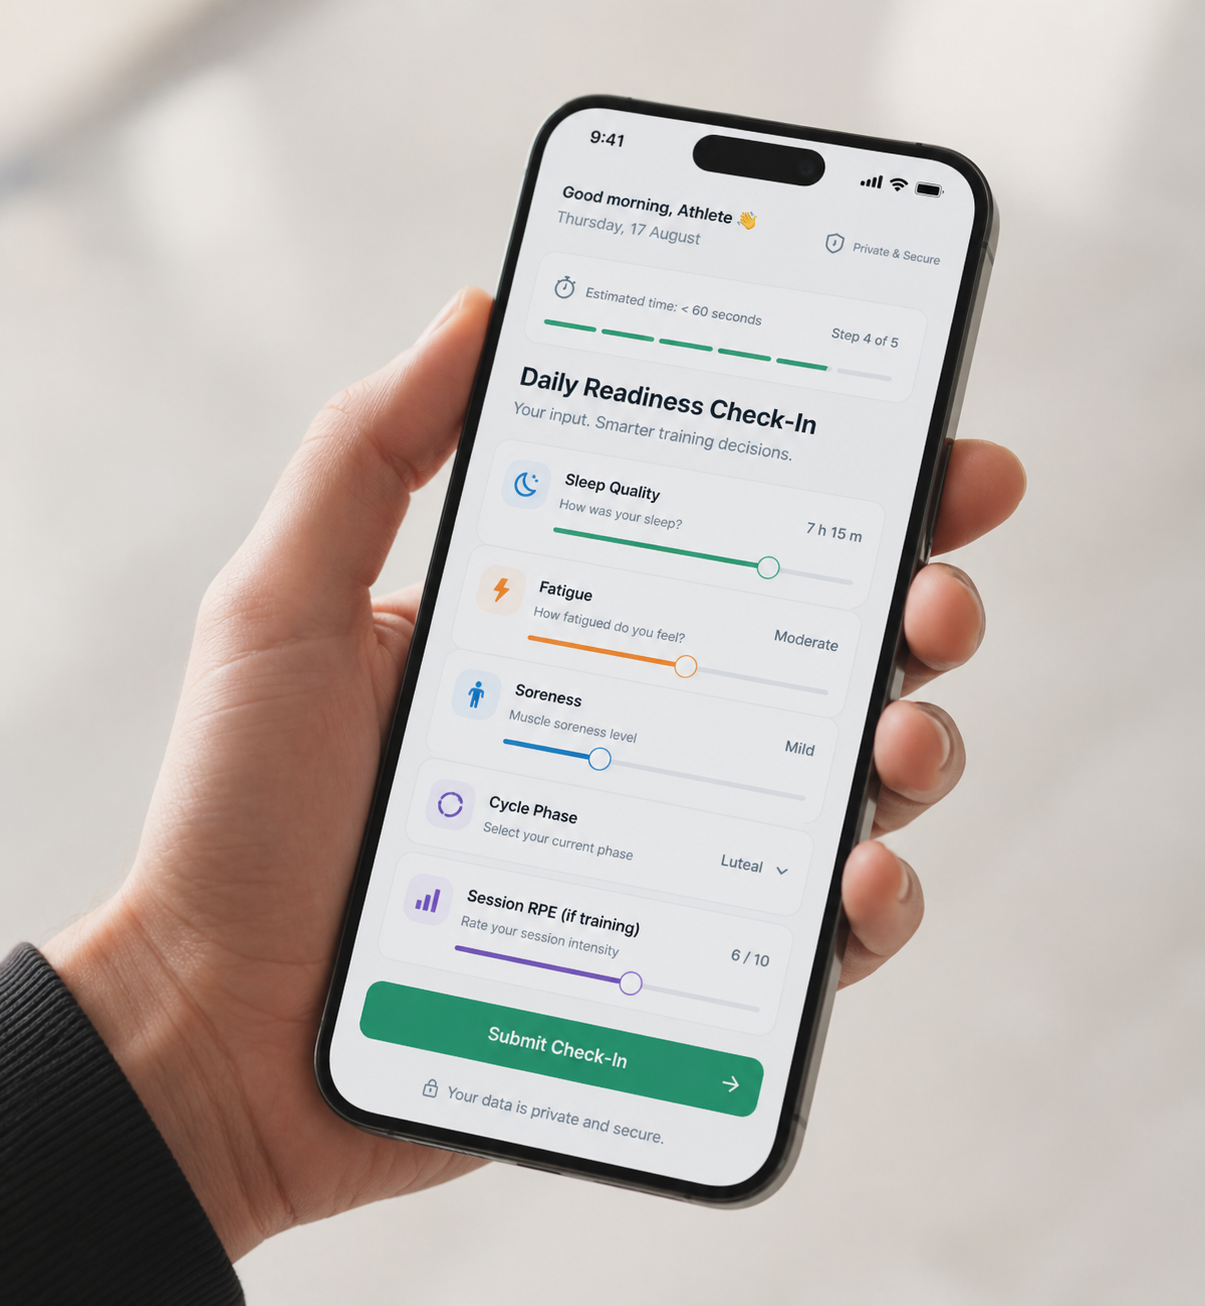
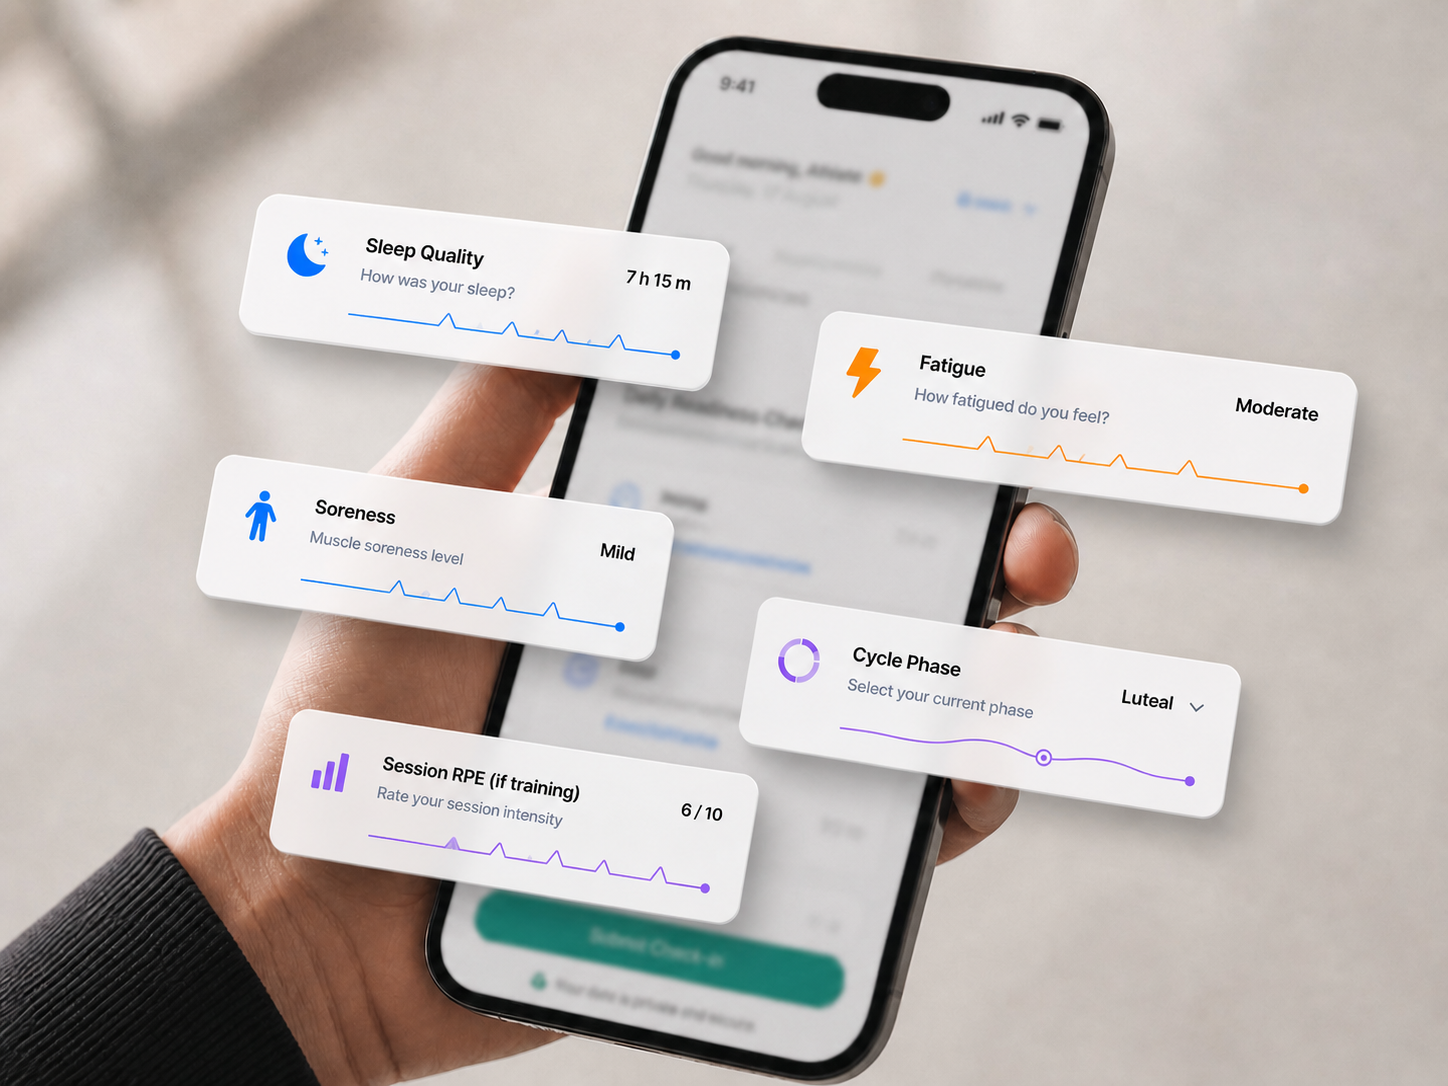
update

diff --git a/src/pages/HowItWorksPage.tsx b/src/pages/HowItWorksPage.tsx
@@ -2,14 +2,10 @@ import React from "react";
 import { motion } from "framer-motion";
 import { Link } from "react-router-dom";
 import {
-  Activity,
   ArrowRight,
   Brain,
   CheckCircle2,
   Gauge,
-  HeartPulse,
-  Network,
-  RefreshCcw,
   ShieldCheck,
   SlidersHorizontal,
   Sparkles,
@@ -147,15 +143,6 @@ const TRUST_CARDS = [
   },
 ];
 
-// Small shared UI primitives used by the hero, mockups, and CTA sections.
-function Pill({ children }: { children: React.ReactNode }) {
-  return (
-    <span className="inline-flex items-center rounded-full border border-slate-200/80 bg-white/80 px-3 py-1 text-fluid-xs font-semibold text-slate-500 shadow-[0_8px_20px_rgba(15,23,42,0.04)]">
-      {children}
-    </span>
-  );
-}
-
 function GradientButton({ children }: { children: React.ReactNode }) {
   return (
     <Link
@@ -236,87 +223,23 @@ function PhoneCheckIn() {
 
 // Step 02 visual: multiple athlete signals converging into one integration layer.
 function SignalIntegrationMockup() {
-  const signals = [
-    { label: "Wellness", Icon: HeartPulse },
-    { label: "Cycle", Icon: RefreshCcw },
-    { label: "Load", Icon: Activity },
-    { label: "RPE", Icon: SlidersHorizontal },
-  ];
-
   return (
-    <div className="relative mx-auto w-full max-w-[560px] rounded-[32px] border border-slate-200/80 bg-white/78 p-6 shadow-[0_30px_80px_rgba(15,23,42,0.08)]">
-      <div className="grid grid-cols-2 gap-4">
-        {signals.map(({ label, Icon }, index) => (
-          <motion.div
-            key={label}
-            animate={{ y: [0, index % 2 === 0 ? -5 : 5, 0] }}
-            transition={{
-              duration: 4.8,
-              repeat: Infinity,
-              ease: "easeInOut",
-              delay: index * 0.18,
-            }}
-            className="rounded-3xl border border-slate-200/70 bg-[#FAFBF8] p-5"
-          >
-            <div className="mb-6 flex h-10 w-10 items-center justify-center rounded-2xl bg-white text-[#4FA3C7] shadow-sm">
-              <Icon className="h-5 w-5" />
-            </div>
-            <p className="text-fluid-base font-bold text-[#111318]">{label}</p>
-            <div className="mt-3 h-2 rounded-full bg-slate-100">
-              <div className="h-full w-2/3 rounded-full bg-gradient-to-r from-[#6FBF9E] to-[#4FA3C7]" />
-            </div>
-          </motion.div>
-        ))}
-      </div>
-      <div className="absolute left-1/2 top-1/2 flex h-28 w-28 -translate-x-1/2 -translate-y-1/2 items-center justify-center rounded-[32px] border border-white bg-gradient-to-br from-[#6FBF9E] to-[#4FA3C7] text-white shadow-[0_24px_60px_rgba(79,163,199,0.34)]">
-        <Network className="h-10 w-10" />
-      </div>
-    </div>
+    <img
+      src="/figure/step2.png"
+      alt="Signal integration preview showing wellness, cycle, load, and RPE inputs"
+      className="absolute inset-0 h-full w-full object-cover"
+    />
   );
 }
 
 // Step 03 visual: AVAIL's physiology-aware engine.
 function EngineMockup() {
   return (
-    <div className="relative mx-auto w-full max-w-[570px] rounded-[34px] border border-slate-200/80 bg-[#101820] p-5 shadow-[0_34px_88px_rgba(15,23,42,0.2)]">
-      <div className="rounded-[26px] border border-white/10 bg-[radial-gradient(circle_at_50%_35%,rgba(111,191,158,0.28),rgba(79,163,199,0.08)_42%,rgba(255,255,255,0.03)_100%)] p-6">
-        <div className="flex items-center justify-between">
-          <p className="text-fluid-xs font-bold uppercase tracking-[0.16em] text-white/42">
-            AVAIL Engine
-          </p>
-          <Pill>Live model</Pill>
-        </div>
-        <div className="relative mx-auto my-8 flex h-52 w-52 items-center justify-center rounded-full border border-white/15 bg-white/[0.04]">
-          <motion.div
-            animate={{ rotate: 360 }}
-            transition={{ duration: 18, repeat: Infinity, ease: "linear" }}
-            className="absolute inset-4 rounded-full border border-dashed border-[#6FBF9E]/60"
-          />
-          <motion.div
-            animate={{ scale: [1, 1.06, 1] }}
-            transition={{ duration: 4.2, repeat: Infinity, ease: "easeInOut" }}
-            className="flex h-28 w-28 items-center justify-center rounded-full bg-gradient-to-br from-[#6FBF9E] to-[#4FA3C7] shadow-[0_0_70px_rgba(111,191,158,0.42)]"
-          >
-            <Brain className="h-12 w-12 text-white" />
-          </motion.div>
-        </div>
-        <div className="grid grid-cols-3 gap-3">
-          {["Recovery", "Fatigue", "Tolerance"].map((label, index) => (
-            <div
-              key={label}
-              className="rounded-2xl border border-white/10 bg-white/[0.06] p-4"
-            >
-              <p className="text-fluid-xs font-semibold uppercase tracking-[0.12em] text-white/40">
-                {label}
-              </p>
-              <p className="mt-2 text-fluid-2xl font-bold text-white">
-                {[78, 31, 84][index]}
-              </p>
-            </div>
-          ))}
-        </div>
-      </div>
-    </div>
+    <img
+      src="/figure/step3.png"
+      alt="AVAIL Engine preview showing physiology-aware load tolerance modeling"
+      className="absolute inset-0 h-full w-full object-cover"
+    />
   );
 }
 
@@ -494,17 +417,33 @@ function StepMockup({ kind }: { kind: MockupKind }) {
 
   if (kind === "checkin") {
     return (
-      <div className="relative mx-auto aspect-[1205/1306] w-full max-w-[420px] overflow-hidden rounded-[28px] border border-slate-200/70 bg-white shadow-[0_24px_64px_rgba(15,23,42,0.08)] hero:mx-0 hero:max-w-[430px]">
+      <div className="relative mx-auto aspect-[4/3] w-full max-w-[620px] overflow-hidden rounded-[30px] border border-slate-200/70 bg-white shadow-[0_24px_64px_rgba(15,23,42,0.08)] hero:mx-0">
         <PhoneCheckIn />
       </div>
     );
   }
 
+  if (kind === "signals") {
+    return (
+      <div className="relative mx-auto aspect-[4/3] w-full max-w-[620px] overflow-hidden rounded-[30px] hero:mx-0">
+        <SignalIntegrationMockup />
+      </div>
+    );
+  }
+
+  if (kind === "engine") {
+    return (
+      <div className="relative mx-auto aspect-[4/3] w-full max-w-[620px] overflow-hidden rounded-[30px] hero:mx-0">
+        <EngineMockup />
+      </div>
+    );
+  }
+
   return (
-    <div className="relative mx-auto min-h-[300px] w-full max-w-[560px] overflow-hidden rounded-[30px] border border-slate-200/70 bg-[radial-gradient(circle_at_50%_15%,rgba(111,191,158,0.18),rgba(250,251,248,0.9)_42%,rgba(255,255,255,0.95)_100%)] px-4 py-6 hero:mx-0 hero:min-h-[400px] hero:px-6 hero:py-7">
+    <div className="relative mx-auto aspect-[4/3] w-full max-w-[620px] overflow-hidden rounded-[30px] border border-slate-200/70 bg-[radial-gradient(circle_at_50%_15%,rgba(111,191,158,0.18),rgba(250,251,248,0.9)_42%,rgba(255,255,255,0.95)_100%)] p-4 hero:mx-0 hero:p-6">
       <div className="absolute left-10 top-10 h-36 w-36 rounded-full bg-[#6FBF9E]/14 blur-3xl" />
       <div className="absolute bottom-12 right-10 h-44 w-44 rounded-full bg-[#4FA3C7]/14 blur-3xl" />
-      <div className="relative z-10 flex min-h-[260px] items-center justify-center hero:min-h-[300px]">
+      <div className="relative z-10 flex h-full items-center justify-center">
         {mockups[kind]}
       </div>
     </div>
@@ -523,9 +462,9 @@ function WorkflowCard({ step, index }: { step: WorkflowStep; index: number }) {
         <div className="absolute left-6 top-5 text-fluid-display font-bold leading-none tracking-[-0.08em] text-slate-100 hero:static hero:self-start">
           {step.number}
         </div>
-        <div className="relative z-10 order-2 flex flex-col justify-center hero:order-none hero:col-start-2 hero:row-start-1 hero:translate-x-10 wide:translate-x-14">
+        <div className="relative z-10 order-2 flex flex-col justify-center hero:order-none hero:col-start-2 hero:row-start-1 hero:translate-x-6 wide:translate-x-10">
           <div className="mx-auto w-full px-1">
-            <h2 className="font-bold leading-[1.03] tracking-[-0.045em] text-[#111318] text-[clamp(1.75rem,1.75vw,2.45rem)] hero:whitespace-nowrap">
+            <h2 className="max-w-[820px] font-bold leading-[1.08] tracking-[-0.045em] text-[#111318] text-[clamp(1.75rem,1.75vw,2.45rem)]">
               {step.headline}
             </h2>
           </div>
@@ -551,7 +490,7 @@ function WorkflowCard({ step, index }: { step: WorkflowStep; index: number }) {
             ))}
           </div>
         </div>
-        <div className="relative z-10 order-3 flex flex-col justify-center hero:order-none hero:col-start-2 hero:row-start-2 hero:translate-x-10 wide:translate-x-14">
+        <div className="relative z-10 order-3 flex flex-col justify-center hero:order-none hero:col-start-2 hero:row-start-2 hero:translate-x-6 wide:translate-x-10">
           <StepMockup kind={step.kind} />
           {index === 3 && (
             <FloatingCard

diff --git a/src/components/SolutionSection.tsx b/src/components/SolutionSection.tsx
@@ -174,24 +174,20 @@ export default function SolutionSection() {
             <motion.article
               key={title}
               {...fadeUp(0.08 + index * 0.06)}
-              whileHover={{
-                y: -6,
-                scale: 1.01,
-                boxShadow: "0 22px 44px rgba(111,191,158,0.14)",
-                transition: { duration: 0.12, ease: "linear" },
-              }}
-              className="group min-h-[210px] rounded-[24px] border border-slate-200/70 bg-[#FEFEFC] px-5 py-5 shadow-[0_18px_54px_rgba(15,23,42,0.05)] hero:min-h-[218px] hero:px-6 hero:py-6 wide:min-h-[250px] wide:p-7"
+              className="min-h-[210px] rounded-[24px] bg-gradient-to-br from-slate-200/70 via-slate-200/70 to-slate-200/70 p-px shadow-[0_18px_54px_rgba(15,23,42,0.05)] transition-colors duration-150 hover:from-[#6FBF9E] hover:via-[#A7ECD0] hover:to-[#4FA3C7] hero:min-h-[218px] wide:min-h-[250px]"
             >
-              <div className="mb-6 flex transition-transform duration-150 group-hover:scale-[1.05] wide:mb-8">
-                <Icon />
-              </div>
+              <div className="h-full rounded-[23px] bg-[#FEFEFC] px-5 py-5 hero:px-6 hero:py-6 wide:p-7">
+                <div className="mb-6 flex wide:mb-8">
+                  <Icon />
+                </div>
 
-              <h3 className="mb-3 text-fluid-lg font-bold leading-[1.15] tracking-[-0.02em] text-[#111318]">
-                {title}
-              </h3>
-              <p className="text-fluid-base leading-[1.65] text-[#667085]">
-                {description}
-              </p>
+                <h3 className="mb-3 text-fluid-lg font-bold leading-[1.15] tracking-[-0.02em] text-[#111318]">
+                  {title}
+                </h3>
+                <p className="text-fluid-base leading-[1.65] text-[#667085]">
+                  {description}
+                </p>
+              </div>
             </motion.article>
           ))}
         </div>